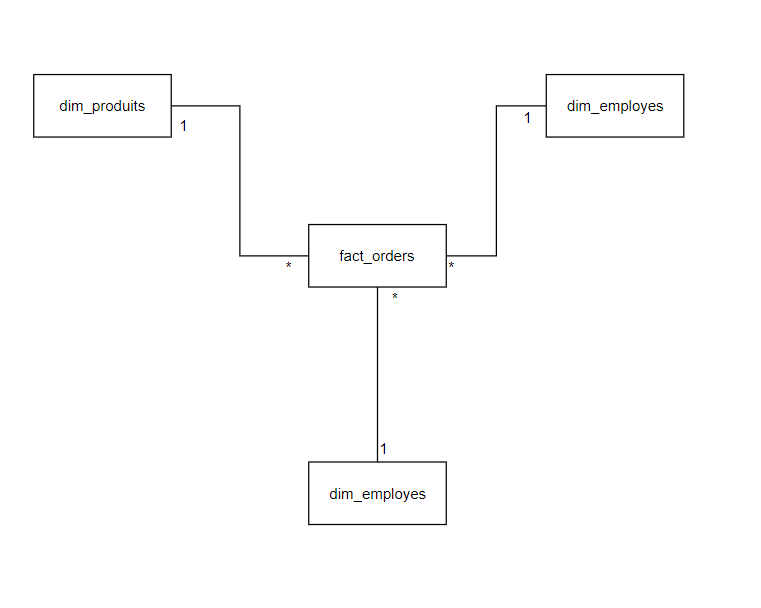
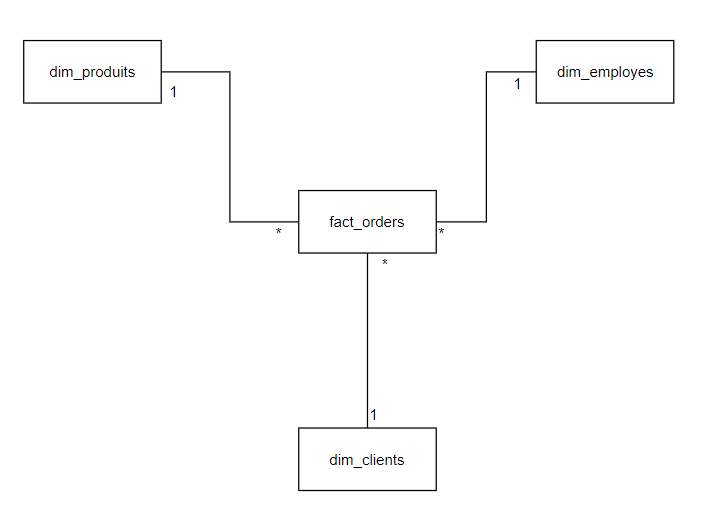
correction erreur dw png

Changed region(s): [[0.0306, 0.0617, 0.6732, 0.894], [0.6426, 0.0617, 0.9485, 0.2466], [0.3978, 0.9249, 0.612, 0.9557]]

diff --git a/README.md b/README.md
@@ -1,5 +1,9 @@
 # Creation et alimentation d'un data warehouse en utilisant Airflow 
-Configuration de airflow : 
+
+Ce projet a pour objectif de monter en compétences sur la techno Airflow. Pour ce faire, l'hyptohèse de création d'un dataware house a été retenue. L'objectif est de construire un worflow permettant d'alimenter le data warehouse créée afin d'analyser les données.
+Les données sont un jeu de données factice issu d'une activité de vente de produits à l'internationnal.
+
+## Configuration de airflow : 
 - LocalExecutor
 - PostrgreSql MetaDabase
 - PostreSql pour le data warehouse
